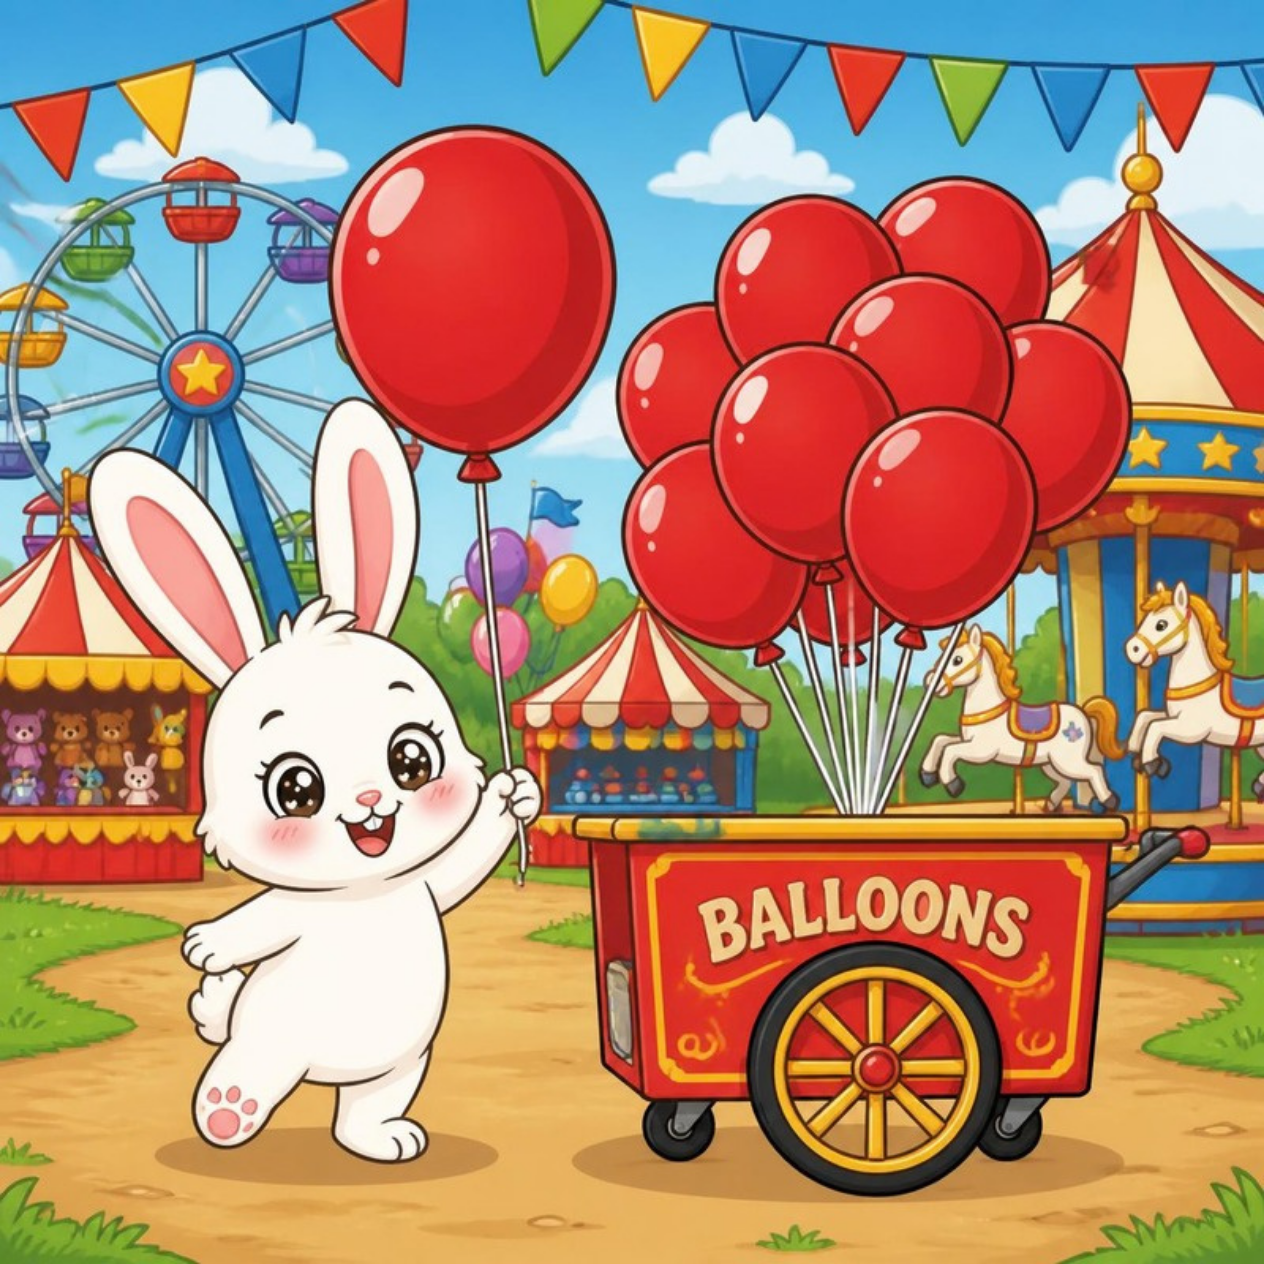
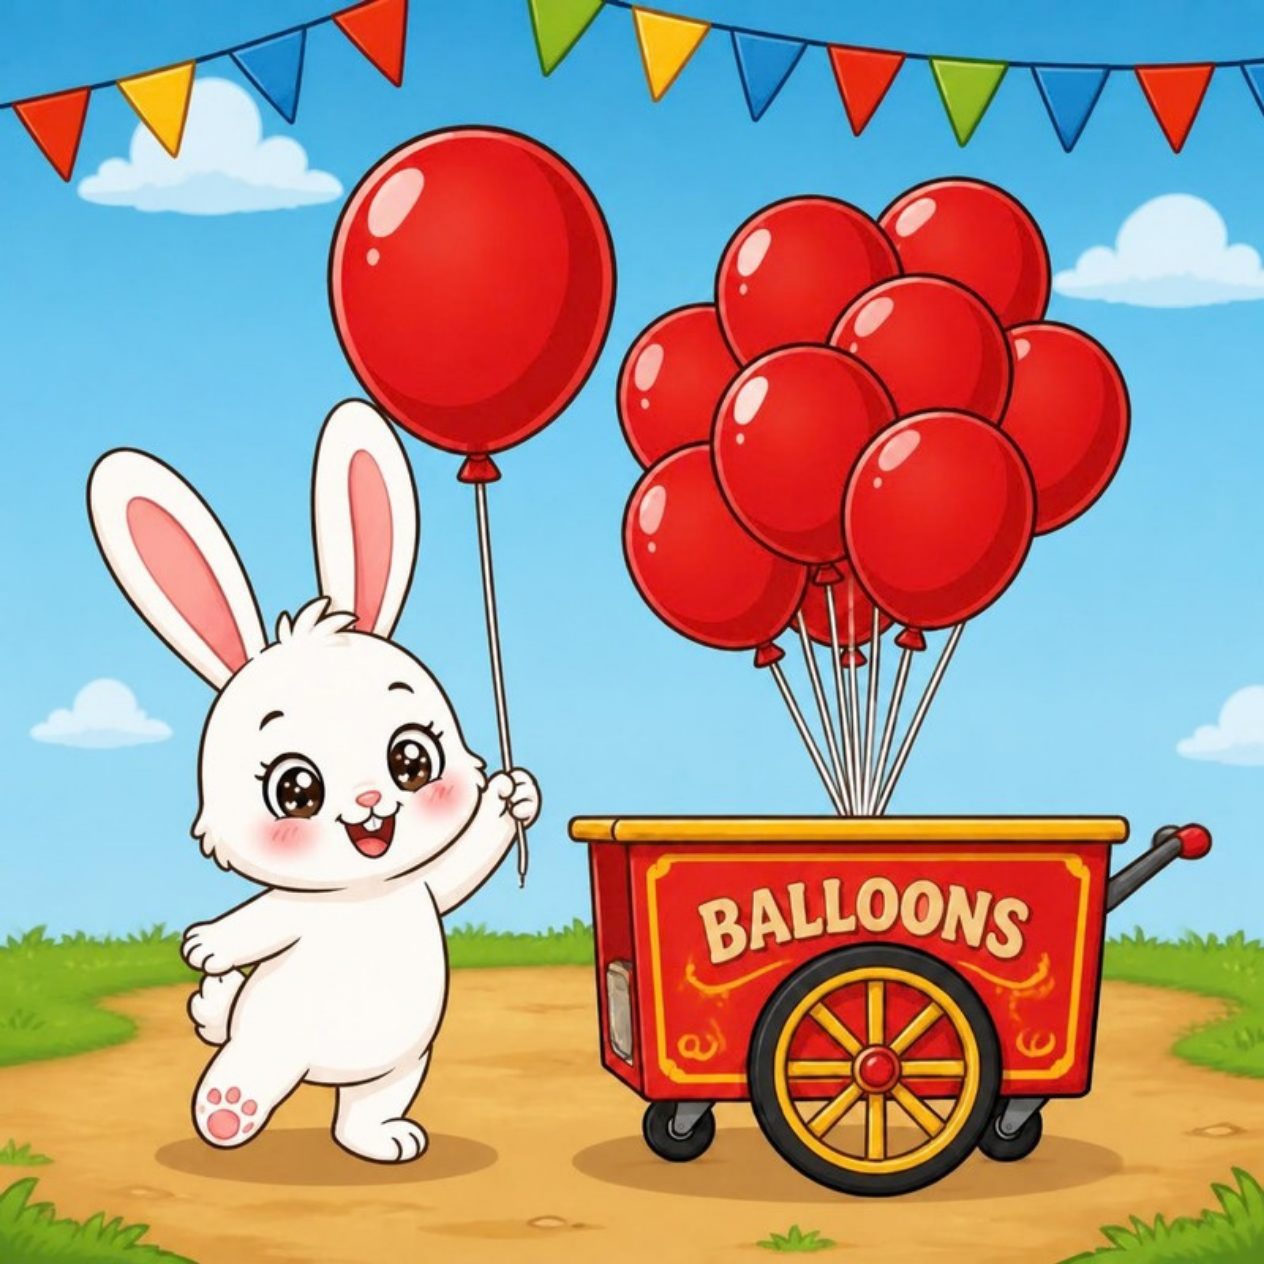
Declutter carnival stand backgrounds, add pointing arrows to join-stage, add reading-readiness activity
Regenerates the red/blue/yellow carnival stand backgrounds without the
ferris wheel, carousel horse, and secondary balloon/candy clusters that
made "what color is it?" ambiguous for a non-reading Pre-A1 student; the
roleplay and storybook scenes share the same files so they inherit the fix.

Adds an optional `arrow` field to join-stage turns (same bouncing-arrow
visual as color-spot) so each question points at the exact object in
frame, and unifies the three questions to a single "What color is it?"
instead of mixed wording.

Adds a new scene kind, word-picture-match ("Read the Sign!"), the lesson's
first dedicated pre-reading activity: a printed word is the prompt (tap to
hear it), student picks the matching picture from 3 choices. Reuses the
carnival's own stand signage and existing transparent icons, modeled on
Cambridge Pre-A1 Starters' picture+word flashcard pairs and Oxford Phonics
World's picture-matching activities.

diff --git a/src/content/playground-library/unit1/scenes.ts b/src/content/playground-library/unit1/scenes.ts
@@ -122,8 +122,15 @@ export type Scene =
       id: string; kind: 'join-stage'; bg: string; teacher: string; cast: CharKey[];
       /** `bg` on a turn overrides the scene's own default for that turn only —
        *  lets each question show the specific object/color/shape it's asking
-       *  about instead of one static wide scene for every turn. */
-      turns: { who: CharKey | 'student'; line: string; bg?: string }[];
+       *  about instead of one static wide scene for every turn.
+       *  `arrow`, when set, points at the exact object the line is asking
+       *  about — same bouncing-arrow visual as `color-spot` (left/top/dir),
+       *  reused here so a question like "What color is it?" stays unambiguous
+       *  even on a background with more than one similarly-colored object.
+       *  First added for Unit 2 Lesson 1 per direct user feedback that a
+       *  free-floating question over a busy scene left students unsure which
+       *  object "it" referred to. */
+      turns: { who: CharKey | 'student'; line: string; bg?: string; arrow?: { left: string; top: string; dir?: 'down' | 'left' | 'right' } }[];
     }
   | { id: string; kind: 'hello-doors'; bg: string; teacher: string; cast: CharKey[]; rounds: { target: CharKey; prompt: string; helloLine: string; echoLine: string }[] }
   | {
@@ -178,6 +185,24 @@ export type Scene =
       id: string; kind: 'flipbook'; bg: string; title: string;
       pages: { who?: CharKey; img: string; text: string }[];
       checkpoints: { afterPage: number; who?: CharKey; question: string; options: string[]; answer: string }[];
+    }
+  | {
+      /** Pre-A1's first dedicated pre-reading activity: a printed WORD is
+       *  the prompt (tap to hear it read aloud), and the student picks the
+       *  matching picture from 3 choices — whole-word shape recognition,
+       *  not phonetic decoding. Modeled on Cambridge Pre-A1 Starters' own
+       *  wordlist picture book (picture + matching word-card flashcard
+       *  pairs, explicitly meant for non-readers to "find and name words
+       *  within pictures") and Oxford Phonics World's picture-matching
+       *  activities, scaled down from sentence-level to single-word level
+       *  for this CEFR band. Framed as reading the carnival stand signs
+       *  (BALLOONS/COTTON CANDY/POPCORN) the lesson's own art already
+       *  shows, so no new art was needed. Added per direct user request
+       *  for a reading-readiness activity appropriate for non-readers —
+       *  distinct from color-quiz (audio-led "which one is RED?", picture-
+       *  only options) because here the printed word is the primary prompt. */
+      id: string; kind: 'word-picture-match'; bg: string; teacher: string;
+      rounds: { word: string; who?: CharKey; correctImg: string; correctLabel: string; distractors: { img: string; label: string }[] }[];
     }
   | {
       id: string; kind: 'color-model'; bg: string; teacher: string;
@@ -2094,6 +2119,28 @@ export const LESSON_6_SCENES: Scene[] = [
  *   (Floppy's Phonics, Level 1) independently pairs a carnival setting with
  *   environmental/letter-sound teaching — the same carnival+phonics pairing
  *   this lesson already uses for its R/Y/B sound-model scenes.
+ * - Second follow-up round, per direct user feedback on the live build:
+ *   (1) the three carnival-stand backgrounds (red balloon/blue cotton
+ *   candy/yellow popcorn) were regenerated decluttered — the originals had
+ *   a ferris wheel, a carousel horse, and (on the red/blue stands) a SECOND
+ *   cluster of differently-colored balloons/candy competing with the one
+ *   the scene was actually about, which made "what color is it?" genuinely
+ *   ambiguous for a non-reading Pre-A1 student. Same const, so roleplay-red/
+ *   yellow/blue and the storybook pages inherit the fix automatically.
+ *   (2) join-stage's three "ask" turns got a new `arrow` field (same
+ *   bouncing-arrow visual as color-spot) pointing at the exact object in
+ *   frame, and the questions were unified to one plain "What color is it?"
+ *   instead of mixed wording ("What color is the balloon?" / "Do you like
+ *   blue?") — the arrow disambiguates now, not the sentence; dropping "I
+ *   like/I don't like" from join-stage isn't losing that practice from the
+ *   lesson, since roleplay-blue already models it. (3) added a new scene
+ *   kind, 'word-picture-match' ("Read the Sign!"), the lesson's first
+ *   dedicated pre-reading activity — printed word as the prompt, tap to
+ *   hear it, pick the matching picture from 3 choices. Reuses the carnival
+ *   stand signage (BALLOONS/COTTON CANDY/POPCORN) already visible in the
+ *   lesson's own art and the already-transparent item icons, so no new art
+ *   was needed. See the type's own comment for the Cambridge/Oxford
+ *   research behind it.
  * ========================================================================= */
 
 const itemYarn = `${A}/items/item-yarn.png`;
@@ -2383,17 +2430,24 @@ export const LESSON_U2L1_SCENES: Scene[] = [
     ],
   },
   {
-    // Free production — "It's ___ / I like ___ / I don't like ___" with no
-    // line modeled right before it. Each question shows the actual stand
-    // it's asking about, not one wide hero shot for every turn.
+    // Free production — "It's ___" with no line modeled right before it.
+    // Each question shows the actual stand it's asking about (now a
+    // decluttered single-object version, no ferris wheel/second balloon
+    // cluster competing for attention — direct user fix), AND an arrow
+    // points at the exact object, same as color-spot's pattern. Questions
+    // simplified to one uniform "What color is it?" per direct user
+    // request — the arrow does the disambiguating, not the wording. The
+    // "I like/I don't like" negative-form practice stays covered by
+    // roleplay-blue ("It's blue!"/"I don't like blue!"), so dropping it
+    // here isn't losing that practice from the lesson, just de-duplicating.
     id: 'u2l1-join-stage', kind: 'join-stage', bg: bgU2L1CHero, teacher: 'Your turn! When it says YOU, say the color.', cast: ['pip', 'willow', 'bella'],
     turns: [
-      { who: 'pip', line: 'What color is the balloon?', bg: bgU2L1CRedBalloonStand },
-      { who: 'student', line: "It's ______.", bg: bgU2L1CRedBalloonStand },
-      { who: 'willow', line: 'Do you like blue?', bg: bgU2L1CBlueCottonCandyStand },
-      { who: 'student', line: 'I like ______. / I don’t like ______.', bg: bgU2L1CBlueCottonCandyStand },
-      { who: 'bella', line: 'What color is the popcorn?', bg: bgU2L1CYellowPopcornStand },
-      { who: 'student', line: "It's ______.", bg: bgU2L1CYellowPopcornStand },
+      { who: 'pip', line: 'What color is it?', bg: bgU2L1CRedBalloonStand, arrow: { left: '72%', top: '20%', dir: 'down' } },
+      { who: 'student', line: "It's ______.", bg: bgU2L1CRedBalloonStand, arrow: { left: '72%', top: '20%', dir: 'down' } },
+      { who: 'willow', line: 'What color is it?', bg: bgU2L1CBlueCottonCandyStand, arrow: { left: '49%', top: '38%', dir: 'down' } },
+      { who: 'student', line: "It's ______.", bg: bgU2L1CBlueCottonCandyStand, arrow: { left: '49%', top: '38%', dir: 'down' } },
+      { who: 'bella', line: 'What color is it?', bg: bgU2L1CYellowPopcornStand, arrow: { left: '27%', top: '70%', dir: 'down' } },
+      { who: 'student', line: "It's ______.", bg: bgU2L1CYellowPopcornStand, arrow: { left: '27%', top: '70%', dir: 'down' } },
     ],
   },
   {
@@ -2410,6 +2464,19 @@ export const LESSON_U2L1_SCENES: Scene[] = [
     checkpoints: [
       { afterPage: 0, who: 'pip', question: 'What color is the balloon?', options: ['Red', 'Blue', 'Yellow'], answer: 'Red' },
       { afterPage: 2, who: 'willow', question: 'What color is the popcorn?', options: ['Red', 'Blue', 'Yellow'], answer: 'Yellow' },
+    ],
+  },
+  {
+    // Reading-readiness activity — see the 'word-picture-match' type comment
+    // for the Cambridge/Oxford research behind this. Reuses the carnival's
+    // own stand signage (BALLOONS/COTTON CANDY/POPCORN) as the reading
+    // target, and the already-transparent item icons as picture choices —
+    // no new art needed.
+    id: 'u2l1-read-signs', kind: 'word-picture-match', bg: bgU2L1CBunting, teacher: 'Read the carnival signs, then find the matching prize!',
+    rounds: [
+      { word: 'BALLOONS', who: 'bella', correctImg: itemBalloonRed, correctLabel: 'Balloon', distractors: [{ img: itemCottonCandyBlue, label: 'Cotton Candy' }, { img: itemPopcornYellow, label: 'Popcorn' }] },
+      { word: 'COTTON CANDY', who: 'willow', correctImg: itemCottonCandyBlue, correctLabel: 'Cotton Candy', distractors: [{ img: itemBalloonRed, label: 'Balloon' }, { img: itemPopcornYellow, label: 'Popcorn' }] },
+      { word: 'POPCORN', who: 'pip', correctImg: itemPopcornYellow, correctLabel: 'Popcorn', distractors: [{ img: itemBalloonRed, label: 'Balloon' }, { img: itemCottonCandyBlue, label: 'Cotton Candy' }] },
     ],
   },
   {

diff --git a/src/content/playground-library/unit1/SceneRenderer.tsx b/src/content/playground-library/unit1/SceneRenderer.tsx
@@ -247,6 +247,7 @@ export function SceneRenderer(props: {
     case 'color-model': return <ColorModelScene scene={scene} onNext={props.onNext} onWin={props.onWin} sync={props.activitySync} />;
     case 'color-sort': return <ColorSortScene scene={scene} onWin={props.onWin} onLose={props.onLose} onNext={props.onNext} />;
     case 'color-quiz': return <ColorQuizScene scene={scene} onWin={props.onWin} onLose={props.onLose} onNext={props.onNext} sync={props.activitySync} />;
+    case 'word-picture-match': return <WordPictureMatchScene scene={scene} onWin={props.onWin} onLose={props.onLose} onNext={props.onNext} sync={props.activitySync} />;
     case 'listen-repeat-cards': return <ListenRepeatCardsScene scene={scene} onWin={props.onWin} onNext={props.onNext} sync={props.activitySync} />;
     case 'color-spot': return <ColorSpotScene scene={scene} onWin={props.onWin} onNext={props.onNext} sync={props.activitySync} />;
     case 'shape-model': return <ShapeModelScene scene={scene} onNext={props.onNext} onWin={props.onWin} sync={props.activitySync} />;
@@ -2163,6 +2164,32 @@ function JoinStageScene({ scene, onNext, onWin, sync }: { scene: Extract<Scene, 
         <span className="w-fit rounded-full bg-white/95 px-3 py-1 text-[11px] font-black uppercase tracking-widest text-orange-700 shadow">Live Stage · Your Turn</span>
         <span className="w-fit rounded-full bg-orange-500 px-3 py-1 text-[11px] font-black uppercase tracking-widest text-white shadow">🎤 Listen · Answer · Talk</span>
       </div>
+      {currentTurn?.arrow && (() => {
+        const { left, top, dir = 'down' } = currentTurn.arrow!;
+        const GAP = 62;
+        const pos = dir === 'down'
+          ? { left, top: `calc(${top} - ${GAP}px)` }
+          : dir === 'right'
+          ? { left: `calc(${left} - ${GAP}px)`, top }
+          : { left: `calc(${left} + ${GAP}px)`, top };
+        const angle = dir === 'down' ? 0 : dir === 'right' ? -90 : 90;
+        return (
+          <span
+            className="pointer-events-none absolute z-20"
+            style={{ ...pos, transform: `translate(-50%, -50%) rotate(${angle}deg)`, animation: 'lep1-hop 0.9s ease-in-out infinite' }}
+          >
+            <svg width="52" height="76" viewBox="0 0 40 58" className="drop-shadow-[0_4px_6px_rgba(0,0,0,0.4)]">
+              <path
+                d="M13 3 C13 1.9 13.9 1 15 1 L25 1 C26.1 1 27 1.9 27 3 L27 21 L36 21 C37.9 21 38.8 23.3 37.4 24.6 L21.4 43.6 C20.6 44.5 19.4 44.5 18.6 43.6 L2.6 24.6 C1.2 23.3 2.1 21 4 21 L13 21 Z"
+                fill="#FE6A2F"
+                stroke="white"
+                strokeWidth="3"
+                strokeLinejoin="round"
+              />
+            </svg>
+          </span>
+        );
+      })()}
       {currentTurn && isFriendTurn && (
         <div className="absolute inset-x-0 top-20 z-30 flex justify-center px-4">
           <div className="max-w-[720px] rounded-[28px] bg-white px-8 py-5 text-center shadow-[0_30px_80px_rgba(0,0,0,0.35)] ring-4 ring-orange-200">
@@ -3224,6 +3251,117 @@ function ColorQuizScene({ scene, onNext, onWin, onLose, sync }: { scene: Extract
               aria-label={opt.label}
             >
               <img src={opt.img} alt={opt.label} className="h-24 w-24 object-contain sm:h-28 sm:w-28" />
+            </button>
+          );
+        })}
+      </div>
+      {correct && (
+        <div className="absolute inset-x-0 bottom-8 z-30 flex justify-center">
+          <button onClick={next} className="rounded-full bg-gradient-to-r from-orange-500 to-pink-500 px-8 py-3 text-lg font-black text-white shadow-2xl active:scale-95" style={{ animation: 'lep1-slide-up 0.4s ease-out' }}>Next →</button>
+        </div>
+      )}
+    </div>
+  );
+}
+
+/* ---------- Word-picture match (printed word is the prompt; tap to hear it,
+ * then pick the matching picture — whole-word reading-readiness, not an
+ * audio-led quiz) ---------- */
+
+function WordPictureMatchScene({ scene, onWin, onLose, onNext, sync }: { scene: Extract<Scene, { kind: 'word-picture-match' }>; onWin: (gem: boolean) => void; onLose: () => void; onNext: () => void; sync?: ActivitySync }) {
+  const [state, setState] = useSyncedState(sync, { roundIdx: 0, picked: null as string | null, correct: false });
+  const { roundIdx, picked, correct } = state;
+  const gemDone = useRef(false);
+  const total = scene.rounds.length;
+  const done = roundIdx >= total;
+  const round = !done ? scene.rounds[roundIdx] : null;
+
+  const options = useMemo(() => {
+    if (!round) return [];
+    const opts = [
+      { img: round.correctImg, label: round.correctLabel, isCorrect: true },
+      ...round.distractors.map((d) => ({ ...d, isCorrect: false })),
+    ];
+    for (let i = opts.length - 1; i > 0; i--) {
+      const j = (i * 7 + roundIdx * 13) % (i + 1);
+      [opts[i], opts[j]] = [opts[j], opts[i]];
+    }
+    return opts;
+  }, [round, roundIdx]);
+
+  useEffect(() => {
+    if (!round) return;
+    setState((s) => ({ ...s, picked: null, correct: false }));
+    // eslint-disable-next-line react-hooks/exhaustive-deps
+  }, [roundIdx]);
+
+  const hearWord = async () => {
+    if (!round) return;
+    sfx.click();
+    await safeSpeak(round.word, round.who);
+  };
+
+  const pick = async (label: string, isCorrect: boolean) => {
+    if (picked) return;
+    if (!isCorrect) {
+      sfx.wrong(); onLose();
+      setState((s) => ({ ...s, picked: label }));
+      window.setTimeout(() => setState((s) => ({ ...s, picked: null })), 600);
+      return;
+    }
+    sfx.match();
+    setState((s) => ({ ...s, picked: label, correct: true }));
+    if (round) await safeSpeak(`Yes! ${round.word}!`, round.who);
+  };
+
+  const next = () => {
+    const n = roundIdx + 1;
+    if (n >= total && !gemDone.current) { gemDone.current = true; sfx.gem(); onWin(true); }
+    setState((s) => ({ ...s, roundIdx: n }));
+  };
+
+  if (done) {
+    return (
+      <div className="absolute inset-0 overflow-hidden bg-cover bg-center" style={{ backgroundImage: `url(${scene.bg})` }}>
+        <div className="pointer-events-none absolute inset-0 flex items-center justify-center bg-black/25">
+          <Confetti />
+          <button onClick={onNext} className="pointer-events-auto rounded-full bg-gradient-to-r from-orange-500 to-pink-500 px-10 py-4 text-xl font-black text-white shadow-2xl active:scale-95">Next →</button>
+        </div>
+      </div>
+    );
+  }
+
+  return (
+    <div className="absolute inset-0 bg-cover bg-center" style={{ backgroundImage: `url(${scene.bg})` }}>
+      <div className="pointer-events-none absolute inset-0 bg-black/20" />
+      <div className="pointer-events-none absolute inset-x-0 top-5 z-20 flex justify-center px-4">
+        <div className="rounded-full bg-white/95 px-5 py-2 text-center text-xs font-black uppercase tracking-widest text-orange-700 shadow-xl sm:text-sm">
+          Read the Sign! <span className="opacity-60">({roundIdx + 1}/{total})</span>
+        </div>
+      </div>
+      <div className="absolute inset-x-0 top-20 z-20 flex justify-center px-4">
+        <button
+          onClick={hearWord}
+          className="rounded-[2rem] border-8 border-white bg-white px-10 py-5 text-4xl font-black uppercase tracking-wide text-orange-600 shadow-2xl transition active:scale-95 sm:text-5xl"
+          aria-label={`Hear the word ${round!.word}`}
+        >
+          {round!.word} <span className="align-middle text-2xl">🔊</span>
+        </button>
+      </div>
+      <div className="absolute inset-x-0 top-1/2 z-10 flex translate-y-4 flex-wrap justify-center gap-6 px-4 sm:gap-10">
+        {options.map((opt) => {
+          const isPicked = picked === opt.label;
+          const showWrong = isPicked && !opt.isCorrect;
+          const showRight = correct && opt.isCorrect;
+          return (
+            <button
+              key={opt.label}
+              onClick={() => pick(opt.label, opt.isCorrect)}
+              disabled={correct}
+              className={`grid h-32 w-32 place-items-center rounded-3xl border-8 bg-white shadow-2xl transition active:scale-95 sm:h-40 sm:w-40 ${showWrong ? 'animate-[lep1-shake_0.4s_ease-in-out] border-red-400' : showRight ? 'border-green-400' : 'border-white'}`}
+              aria-label={opt.label}
+            >
+              <img src={opt.img} alt={opt.label} className="h-20 w-20 object-contain sm:h-24 sm:w-24" />
             </button>
           );
         })}
